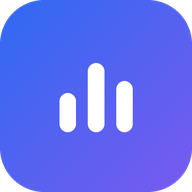
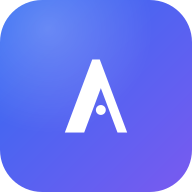
Add files via upload

diff --git a/index.html b/index.html
@@ -3,15 +3,15 @@
 <head>
 <meta charset="utf-8">
 <meta name="viewport" content="width=device-width, initial-scale=1, viewport-fit=cover">
-<title>Catat Uang</title>
+<title>Arta</title>
 <meta name="description" content="Catat pemasukan dan pengeluaran langsung ke Google Sheets.">
 <meta name="theme-color" content="#ffffff">
 <meta name="mobile-web-app-capable" content="yes">
 <meta name="apple-mobile-web-app-capable" content="yes">
 <meta name="apple-mobile-web-app-status-bar-style" content="default">
-<meta name="apple-mobile-web-app-title" content="Catat Uang">
+<meta name="apple-mobile-web-app-title" content="Arta">
 <link rel="manifest" href="manifest.json">
-<link rel="icon" href="icon-192.png">
+<link rel="icon" href="icon-192.png" type="image/png">
 <link rel="apple-touch-icon" href="icon-192.png">
 <link rel="preconnect" href="https://fonts.googleapis.com">
 <link rel="preconnect" href="https://fonts.gstatic.com" crossorigin>
@@ -312,7 +312,7 @@ th{font-weight:600;color:var(--muted);border-top:0}
 
 <!-- ============ Layar hubungkan (pertama kali) ============ -->
 <main class="gate" id="gate" hidden>
-  <div class="logo"><svg viewBox="0 0 24 24" fill="none" stroke-width="2.4" stroke-linecap="round"><path d="M5 19V11M12 19V5M19 19v-5"/></svg></div>
+  <div class="logo"><svg viewBox="15 12 70 76" aria-hidden="true"><path d="M21.00 84.00 L46.50 16.00 L53.50 16.00 L79.00 84.00 L70.00 84.00 L54.50 42.67 L39.00 84.00 Z" fill="#fff" stroke="none"/><circle cx="54.50" cy="63" r="4.6" fill="#fff" stroke="none"/></svg></div>
   <h1>Hubungkan ke spreadsheet-mu</h1>
   <p>Cukup sekali. Setelah ini aplikasi langsung terbuka di HP ini.</p>
   <form id="gateForm" novalidate>
@@ -329,8 +329,8 @@ th{font-weight:600;color:var(--muted);border-top:0}
 <div class="app" id="app" hidden>
   <header class="top">
     <div class="brand">
-      <div class="logo"><svg viewBox="0 0 24 24" fill="none" stroke-width="2.4" stroke-linecap="round"><path d="M5 19V11M12 19V5M19 19v-5"/></svg></div>
-      <h1>Catat Uang</h1>
+      <div class="logo"><svg viewBox="15 12 70 76" aria-hidden="true"><path d="M21.00 84.00 L46.50 16.00 L53.50 16.00 L79.00 84.00 L70.00 84.00 L54.50 42.67 L39.00 84.00 Z" fill="#fff" stroke="none"/><circle cx="54.50" cy="63" r="4.6" fill="#fff" stroke="none"/></svg></div>
+      <h1>Arta</h1>
     </div>
     <button class="sync" id="syncBtn" aria-label="Sinkronkan data"><span class="dot" id="syncDot"></span><span id="syncText">Memuat</span></button>
   </header>

diff --git a/app.js b/app.js
@@ -1,4 +1,4 @@
-/* CATAT UANG — logika aplikasi (app.js) */
+/* ARTA — logika aplikasi (app.js) */
 'use strict';
 
 /* =====================================================================
@@ -255,7 +255,7 @@ if (typeof document !== 'undefined') (function () {
     same: '<svg viewBox="0 0 24 24" fill="none" stroke="currentColor" stroke-width="2.2" stroke-linecap="round"><path d="M5 9h14M5 15h14"/></svg>',
     ok: '<svg viewBox="0 0 24 24" fill="none" stroke="currentColor" stroke-width="2.6" stroke-linecap="round" stroke-linejoin="round"><path d="M5 12.5l4.5 4.5L19 7.5"/></svg>',
     warn: '<svg viewBox="0 0 24 24" fill="none" stroke="currentColor" stroke-width="2.4" stroke-linecap="round" stroke-linejoin="round"><path d="M12 8v5M12 16.5v.5"/><circle cx="12" cy="12" r="9"/></svg>',
-    box: '<svg viewBox="0 0 24 24" fill="none" stroke="currentColor" stroke-width="2" stroke-linecap="round" stroke-linejoin="round"><rect x="4" y="4" width="16" height="16" rx="4"/><path d="M12 9v6M9 12h6"/></svg>',
+    box: '<svg viewBox="0 0 24 24" fill="none" stroke="currentColor" stroke-width="2" stroke-linecap="round" stroke-linejoin="round"><path d="M4.5 6.5h4.2a3.3 3.3 0 0 0 6.6 0h4.2V17a3 3 0 0 1-3 3h-9a3 3 0 0 1-3-3z"/><circle cx="12" cy="14" r="1.1" fill="currentColor" stroke="none"/></svg>',
     find: '<svg viewBox="0 0 24 24" fill="none" stroke="currentColor" stroke-width="2" stroke-linecap="round"><circle cx="11" cy="11" r="6.5"/><path d="M16 16l4 4"/></svg>',
   };
 
@@ -708,7 +708,7 @@ if (typeof document !== 'undefined') (function () {
     }
   };
 
-  const VERSI_APP = '1.4';
+  const VERSI_APP = '1.5';
   function renderAtur() {
     $('sVersi').textContent = 'Versi aplikasi ' + VERSI_APP + ', pembaca struk ' + (window.Struk ? window.Struk.VERSI || 1 : '-') + '.';
     renderKatAdmin();

diff --git a/sw.js b/sw.js
@@ -1,8 +1,8 @@
-/* CATAT UANG — service worker (sw.js)
+/* ARTA — service worker (sw.js)
    1. File aplikasi selalu diambil versi terbarunya dari internet; salinan tersimpan dipakai saat offline/lambat.
    2. Menerima bukti transaksi yang dibagikan dari aplikasi bank (menu "Bagikan").
    Data transaksi TIDAK lewat sini; itu langsung ke Google Apps Script. */
-const VERSI = 'catat-uang-v7';
+const VERSI = 'catat-uang-v8';
 const KIRIMAN = 'catat-uang-kiriman';
 const INTI = ['./', './index.html', './app.js', './struk.js', './manifest.json', './icon-192.png', './icon-512.png'];
 const BATAS_TUNGGU = 1500; // ms; lebih lama dari ini, pakai salinan tersimpan dulu
